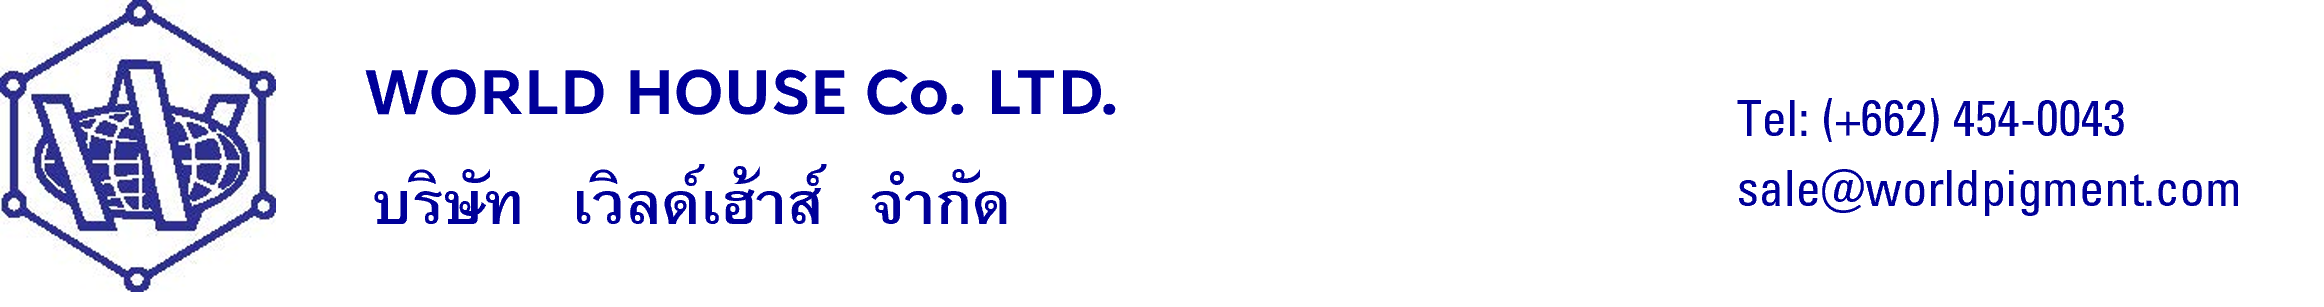
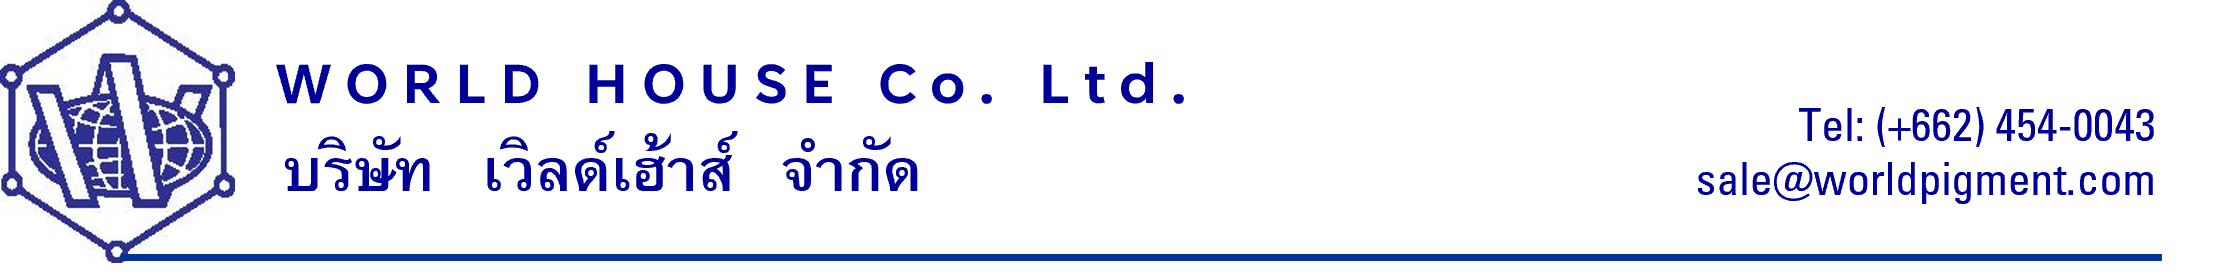
16/10/2569 3 แก้ใบเสนอราคา และ order

Changed region(s): [[0.0, 0.0, 0.9915, 0.9635], [0.7436, 0.3212, 0.9915, 0.5255], [0.7436, 0.5547, 0.9915, 0.7299]]

diff --git a/database/migrations/2026_10_16_100000_widen_qno_on_quotation_tables.php b/database/migrations/2026_10_16_100000_widen_qno_on_quotation_tables.php
@@ -1,0 +1,52 @@
+<?php
+
+use Illuminate\Database\Migrations\Migration;
+use Illuminate\Support\Facades\DB;
+use Illuminate\Support\Facades\Schema;
+
+/**
+ * ขยายเลขที่ใบเสนอราคา (Qno) varchar(10) → varchar(20) — 16/10/2569 ตามที่ผู้ใช้สั่ง
+ * ทั้ง 3 ตารางที่เก็บเลขที่ใบ: qmast (หัว) · qdetail (รายการ) · qdetail_ext (ราคาแยกย่อย)
+ * raw SQL เพราะโปรเจกต์ไม่มี doctrine/dbal · idempotent — ขยายเฉพาะตารางที่ยังแคบกว่า 20
+ * ⚠ ตาราง legacy เป็น MyISAM — ALTER จะ rebuild ตาราง (ข้อมูลเดิมไม่หาย)
+ */
+return new class extends Migration
+{
+    private const TABLES = ['qmast', 'qdetail', 'qdetail_ext'];
+
+    public function up()
+    {
+        foreach (self::TABLES as $table) {
+            if (!Schema::hasTable($table) || !Schema::hasColumn($table, 'Qno')) {
+                continue;
+            }
+            if ($this->length($table) < 20) {
+                DB::statement("ALTER TABLE `{$table}` MODIFY `Qno` VARCHAR(20) NULL");
+            }
+        }
+    }
+
+    public function down()
+    {
+        // ย่อกลับได้เฉพาะเมื่อยังไม่มีเลขที่ยาวเกิน 10 ตัว (ไม่งั้นข้อมูลถูกตัด/ALTER ล้มเหลว)
+        foreach (self::TABLES as $table) {
+            if (!Schema::hasTable($table) || !Schema::hasColumn($table, 'Qno')) {
+                continue;
+            }
+            $tooLong = DB::table($table)->whereRaw('CHAR_LENGTH(`Qno`) > 10')->exists();
+            if (!$tooLong && $this->length($table) > 10) {
+                DB::statement("ALTER TABLE `{$table}` MODIFY `Qno` VARCHAR(10) NULL");
+            }
+        }
+    }
+
+    private function length(string $table): int
+    {
+        $row = DB::selectOne(
+            'SELECT CHARACTER_MAXIMUM_LENGTH AS len FROM information_schema.COLUMNS
+             WHERE TABLE_SCHEMA = DATABASE() AND TABLE_NAME = ? AND COLUMN_NAME = ?',
+            [$table, 'Qno']
+        );
+        return (int) ($row->len ?? 0);
+    }
+};

diff --git a/resources/views/quotation/print.blade.php b/resources/views/quotation/print.blade.php
@@ -29,8 +29,8 @@
     // ── รูปหัวกระดาษ (16/10/2569) — ตามช่อง "หัวกระดาษ" ของใบ (qmast.letterhead) ไฟล์อยู่ที่ public/letter-head ──
     $letterheadFiles = [
         'WH'  => 'WH LETTER HEAD.png',
-        'WPC' => 'WPC LETTER HEAD_noline.png',
-        'WPI' => 'WPI LETTER HEAD _noline.png',
+        'WPC' => 'WPC LETTER HEAD.png',
+        'WPI' => 'WPI LETTER HEAD.png',
     ];
     $lhFile = $letterheadFiles[strtoupper(trim($header->letterhead ?? ''))] ?? null;
     $letterheadUrl = $lhFile ? asset('letter-head/' . rawurlencode($lhFile)) : null;
@@ -126,7 +126,7 @@
             <div>{{ $enDate($header->Qdate) }}</div>
         </div>
 
-        <div class="subject"><span class="field-label">Re:</span> &nbsp;&nbsp; {{ $subjectEn }} &nbsp; {{ $ptname }}</div>
+        <div class="subject"><span class="field-label">Re:</span> &nbsp;&nbsp; {{ $subjectEn }}</div>{{-- ตัดชนิดสินค้า ($ptname) ออก 16/10/2569 --}}
         <div class="subject">
             <span class="field-label">ATTN:</span> &nbsp;&nbsp;
             {{ $tnameEn ?: '—' }} @if($header->Custid) ({{ $header->Custid }}) @endif
@@ -172,6 +172,11 @@
                             $disp = $num
                                 ? (($v !== null && $v !== '') ? number_format((float) $v, 2) . ($reg['suffix'] ?? '') : '')
                                 : $v;
+                            // น้ำหนักส่งครั้งละ เก็บเป็นข้อความ (อาจเป็นช่วง เช่น 1000-2000) → ใส่คอมมาให้ตัวเลข 4 หลักขึ้นไป
+                            // (ข้ามตัวเลขที่ใส่คอมมา/จุดทศนิยมมาแล้ว) — 16/10/2569
+                            if ($k === 'delivery_qty' && $disp !== null && $disp !== '') {
+                                $disp = preg_replace_callback('/(?<![\d,.])\d{4,}/', fn ($m) => number_format((int) $m[0]), (string) $disp);
+                            }
                         @endphp
                         <td class="{{ $num ? 'text-end' : '' }} {{ $k === 'code' ? 'code' : '' }}">{{ $disp }}</td>
                     @endforeach

diff --git a/resources/views/quotation/index.blade.php b/resources/views/quotation/index.blade.php
@@ -353,7 +353,7 @@
                             <div class="col-md-4 of-row">
                                 <label class="form-label">เลขที่ใบเสนอราคา <span class="text-danger">*</span></label>
                                 <div class="of-ctl">
-                                    <input type="text" name="Qno" id="q_Qno" class="form-control" maxlength="10" required>
+                                    <input type="text" name="Qno" id="q_Qno" class="form-control" maxlength="20" required>
                                 </div>
                             </div>
                             <div class="col-md-4 of-row">
@@ -371,7 +371,10 @@
                         </div>
                         {{-- แถวล่าง: ชนิดสินค้า / พร้อมตัวอย่าง --}}
                         <div class="row gx-3 gy-2 mt-0">
-                            <div class="col-md-4 of-row">
+                            {{-- ชนิดสินค้า — ซ่อนไว้ก่อน (16/10/2569 ตามที่ผู้ใช้สั่ง) · ใช้ d-none ไม่ใช่ลบทิ้ง
+                                 เพราะ select ยังต้องส่งค่า PDtype ไปกับฟอร์ม ไม่งั้นแก้ใบเดิมแล้ว PDtype ถูกทับเป็นค่าว่าง
+                                 (PDtype ยังใช้เดารูปแบบตารางของใบเก่าฝั่ง server) · เปิดคืน: ถอด d-none ออก --}}
+                            <div class="col-md-4 of-row d-none">
                                 <label class="form-label">ชนิดสินค้า</label>
                                 <div class="of-ctl">
                                     <select name="PDtype" id="q_PDtype" class="form-select w-100">

diff --git a/resources/views/order/index.blade.php b/resources/views/order/index.blade.php
@@ -2000,6 +2000,8 @@
         var no     = ($('#o_Orderno').val() || '').trim();
         var prefix = (isEdit && no ? no : type).substring(0, 2).toUpperCase();
         var custno = ($('#o_Custno').val() || '').trim();
+        // ลูกค้ารหัสขึ้นต้นด้วย E ไม่ต้องผ่านฟอร์มนี้ — มาก่อนเงื่อนไขอื่นทั้งหมด (16/10/2569 ตามที่ผู้ใช้สั่ง)
+        if (custno.charAt(0).toUpperCase() === 'E') return false;
         return prefix === 'WI'
             || ($('#o_Company').val() || '') === 'CP'
             || CP_CHECK_CUSTOMERS.indexOf(custno) !== -1;

diff --git a/app/Http/Controllers/OrderController.php b/app/Http/Controllers/OrderController.php
@@ -1072,8 +1072,8 @@ class OrderController extends Controller
             return null;
         }
 
-        // รหัสสินค้าขึ้นต้นด้วย E (ตัวเล็ก/ใหญ่) ไม่ต้องเช็คราคา (16/10/2569 ตามที่ผู้ใช้สั่ง)
-        if (strtoupper($itemno[0]) === 'E') {
+        // รหัสลูกค้าขึ้นต้นด้วย E (ตัวเล็ก/ใหญ่) ไม่ต้องเช็คราคา (16/10/2569 ตามที่ผู้ใช้สั่ง)
+        if (strtoupper(substr(trim($custno), 0, 1)) === 'E') {
             return null;
         }
 

diff --git a/CLAUDE.md b/CLAUDE.md
@@ -837,7 +837,13 @@ Auth เป็นแบบ session-based; middleware `loggedin` (`app/Http/Middl
 
 **ปุ่ม "คัดลอกเป็นใบใหม่" (16/10/2569 ตามที่ผู้ใช้สั่ง)** — ปุ่ม `ti-copy` ในแถวของ `quotation/table.blade.php` → `quotationCopy(qno)` = `quotationEdit(qno, true)` (โหลดผ่าน `/edit` ตัวเดิม เติมฟอร์มครบทุกช่อง) แล้ว `toCopyMode()` สลับเป็นโหมด `insert`: เลขที่ใหม่จาก `/next-qno` ตาม prefix หัวกระดาษของใบเก่า (แก้ได้) · วันที่เสนอราคา = วันนี้ · **ล้าง Revisedate / ValidFrom / Validto** · `qCreator = null` (ไม่ถามรหัสผ่าน ผู้สร้าง = คนที่กดบันทึก) · **ไม่แก้ฝั่ง server** — บันทึกผ่าน `insert()` ตามปกติ (กันเลขที่ซ้ำอยู่แล้ว) · ⚠ ยังไม่ได้กดในเบราว์เซอร์
 
-**รูปหัวกระดาษบนหน้าพิมพ์ (16/10/2569 ตามที่ผู้ใช้สั่ง)** — `quotation/print.blade.php` (ใช้ทั้งพิมพ์จริงและ print-preview) วางรูปกว้างเต็มหน้าบนสุดตาม `qmast.letterhead`: `WH` → `public/letter-head/WH LETTER HEAD.png` · `WPC` → `WPC LETTER HEAD_noline.png` · `WPI` → `WPI LETTER HEAD _noline.png` · รูปกว้าง **90%** ของหน้า จัดกึ่งกลาง (map `$letterheadFiles` ใน blade, URL ผ่าน `asset()` + `rawurlencode` เพราะชื่อไฟล์มีช่องว่าง) · ค่าว่าง/ไม่รู้จัก = ไม่แสดงรูป · ⚠ ชื่อไฟล์ WPI มีช่องว่างก่อน `_noline` — เปลี่ยนชื่อไฟล์ต้องแก้ map ตาม · ⚠ ไฟล์เป็น RGBA พื้นโปร่งใส ~83% ที่มีสีดำซ่อนอยู่ข้างใต้ — พิมพ์/PDF บางเครื่องอาจขึ้นเป็นแถบดำ · **เลือกได้ว่าจะพิมพ์หัวกระดาษไหม** — กดพิมพ์ (ปุ่มในตาราง `quotationPrint` / ตัวอย่างพิมพ์ในฟอร์ม `quotationPrintPreview`) → `askLetterhead()` เด้ง Swal "พิมพ์พร้อมหัวกระดาษ / ไม่พิมพ์หัวกระดาษ / ยกเลิก" → ไม่พิมพ์ = ส่ง **`lh=0`** (query ของ `/print` · POST ของ `/print-preview`) → blade ตั้ง `$letterheadBlank` แล้วใส่ class `blank` = **ซ่อนรูปแต่เว้นที่ว่างสูงเท่าหัวกระดาษไว้** (`visibility: hidden` ไม่ใช่ `display: none`) ให้เอากระดาษที่มีหัวพิมพ์แล้วมาใส่เอง · ⚠ ต้องถามก่อนเพราะทั้ง 2 ปุ่มโหลดหน้าพิมพ์ใน iframe ซ่อนแล้วสั่งพิมพ์ทันที — **ผู้ใช้ไม่เคยเห็นแถบ `.toolbar` ของหน้าพิมพ์** (เคยใส่ checkbox ไว้ตรงนั้นแล้วมองไม่เห็น เอาออกแล้ว) · ข้อมูลจริง: WH 1,215 ใบ · WPI 2 · WPC 0
+**รูปหัวกระดาษบนหน้าพิมพ์ (16/10/2569 ตามที่ผู้ใช้สั่ง)** — `quotation/print.blade.php` (ใช้ทั้งพิมพ์จริงและ print-preview) วางรูปกว้างเต็มหน้าบนสุดตาม `qmast.letterhead`: `WH` → `public/letter-head/WH LETTER HEAD.png` · `WPC` → `WPC LETTER HEAD.png` · `WPI` → `WPI LETTER HEAD.png` (ผู้ใช้เปลี่ยนรูปชุดใหม่ 16/10/2569) · รูปกว้าง **90%** ของหน้า จัดกึ่งกลาง (map `$letterheadFiles` ใน blade, URL ผ่าน `asset()` + `rawurlencode` เพราะชื่อไฟล์มีช่องว่าง) · ค่าว่าง/ไม่รู้จัก = ไม่แสดงรูป · ⚠ เปลี่ยนชื่อไฟล์ต้องแก้ map ตาม · ⚠ ไฟล์เป็น RGBA พื้นโปร่งใส ~83% ที่มีสีดำซ่อนอยู่ข้างใต้ — พิมพ์/PDF บางเครื่องอาจขึ้นเป็นแถบดำ · **เลือกได้ว่าจะพิมพ์หัวกระดาษไหม** — กดพิมพ์ (ปุ่มในตาราง `quotationPrint` / ตัวอย่างพิมพ์ในฟอร์ม `quotationPrintPreview`) → `askLetterhead()` เด้ง Swal "พิมพ์พร้อมหัวกระดาษ / ไม่พิมพ์หัวกระดาษ / ยกเลิก" → ไม่พิมพ์ = ส่ง **`lh=0`** (query ของ `/print` · POST ของ `/print-preview`) → blade ตั้ง `$letterheadBlank` แล้วใส่ class `blank` = **ซ่อนรูปแต่เว้นที่ว่างสูงเท่าหัวกระดาษไว้** (`visibility: hidden` ไม่ใช่ `display: none`) ให้เอากระดาษที่มีหัวพิมพ์แล้วมาใส่เอง · ⚠ ต้องถามก่อนเพราะทั้ง 2 ปุ่มโหลดหน้าพิมพ์ใน iframe ซ่อนแล้วสั่งพิมพ์ทันที — **ผู้ใช้ไม่เคยเห็นแถบ `.toolbar` ของหน้าพิมพ์** (เคยใส่ checkbox ไว้ตรงนั้นแล้วมองไม่เห็น เอาออกแล้ว) · ข้อมูลจริง: WH 1,215 ใบ · WPI 2 · WPC 0
+
+**ปรับฟอร์ม/หน้าพิมพ์ 16/10/2569 (ตามที่ผู้ใช้สั่ง):**
+- **เลขที่ใบเสนอราคา ยาวได้ 20 ตัว** (เดิม 10) — migration `2026_10_16_100000_widen_qno_on_quotation_tables` (**รันแล้ว**, idempotent) ขยาย `Qno` เป็น `varchar(20)` ทั้ง `qmast` / `qdetail` / `qdetail_ext` (MyISAM) + ช่อง `#q_Qno` `maxlength="20"`
+- **ช่อง "ชนิดสินค้า" (`#q_PDtype`) ซ่อนไว้ก่อน** ด้วย `d-none` — **ไม่ได้ลบ** เพราะ select ต้องส่ง `PDtype` ไปกับฟอร์ม ไม่งั้นแก้ใบเดิมแล้ว `PDtype` ถูกทับเป็นค่าว่าง · ใบใหม่ได้ `PDtype` = ตัวเลือกแรกของ select (ผู้ใช้มองไม่เห็น)
+- **หน้าพิมพ์ภาษาอังกฤษ:** บรรทัด `Re:` เหลือ `Quotation` / `Price Revision` — ตัดชนิดสินค้า (`$ptname`) ออก · ⚠ **บรรทัด "เรื่อง" ภาษาไทยยังพิมพ์ `$ptname` อยู่**
+- **หน้าพิมพ์: น้ำหนักส่งครั้งละ (`delivery_qty`) ใส่คอมมา** — เป็นข้อความ (varchar 20) จึงใส่คอมมาเฉพาะตัวเลข 4 หลักขึ้นไปด้วย regex (`1000-2000` → `1,000-2,000`, ข้ามตัวที่มีคอมมา/ทศนิยมอยู่แล้ว) · เฉพาะหน้าพิมพ์ ช่องในฟอร์มยังไม่ใส่คอมมา
 
 **ราคา (บาท/กก) รวมจากช่องราคาข้างหน้าอัตโนมัติ (16/10/2569 ตามที่ผู้ใช้สั่ง)** — `priceParts()` / `recalcPriceKg()` ใน `quotation/index.blade.php` เรียกจาก `updateItem()` เมื่อแก้ช่องส่วนประกอบ: ทั่วไป = `resin_price` + `process_fee` + `pigment_price` + `loss_pct` · รูปแบบ **2.3** = `new_process_fee` + `new_pigment_price` · นับเฉพาะคอลัมน์ที่แสดงอยู่ (ไม่มี `price_kg` ในรูปแบบ = ไม่ทำ) แล้วต่อด้วย `recalcVat()` · ไม่กรอกส่วนประกอบเลย = ไม่แตะราคา · **ไม่คำนวณทับตอนเปิดใบเดิม** · ช่องราคายังพิมพ์ทับเองได้ · ⚠ `loss_pct` (% สูญเสีย, รูปแบบ 1.4) **บวกเป็นตัวเลขตรง ๆ** ไม่ได้คิดเป็นเปอร์เซ็นต์ของราคา (ผู้ใช้สั่ง "รวมเหมือนกัน") · ฝั่งจอล้วน server ไม่ได้ตรวจ
 
